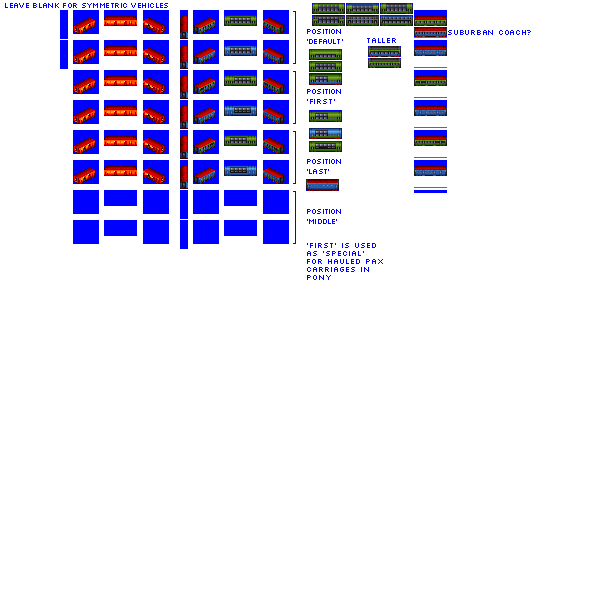
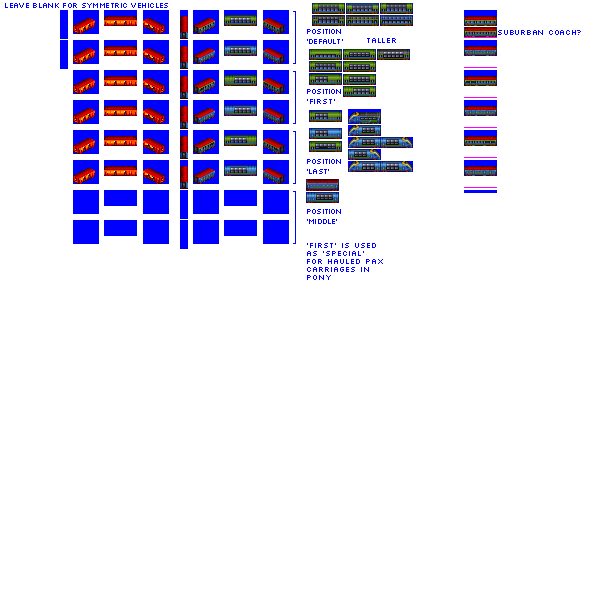
Change: WIP on pony gen 4 NG extension

diff --git a/src/train.py b/src/train.py
@@ -1155,7 +1155,9 @@ class Consist(object):
     @property
     def buy_menu_additional_text_role_string(self):
         if self._buy_menu_additional_text_role_string is not None:
-            return "STR_ROLE, string(" + self._buy_menu_additional_text_role_string + ")"
+            return (
+                "STR_ROLE, string(" + self._buy_menu_additional_text_role_string + ")"
+            )
         for role_group, roles in global_constants.role_group_mapping.items():
             if self.role in roles:
                 return (
@@ -1597,7 +1599,9 @@ class MailEngineRailcarConsist(MailEngineConsist):
         self.train_flag_mu = True
         if self.base_track_type_name == "NG" and self.gen == 4:
             # pony NG jank, mail railcar directly set role buy menu string here, (don't set a different role as that confuses the tech tree etc)
-            self._buy_menu_additional_text_role_string = "STR_ROLE_GENERAL_PURPOSE_EXPRESS"
+            self._buy_menu_additional_text_role_string = (
+                "STR_ROLE_GENERAL_PURPOSE_EXPRESS"
+            )
         # non-standard cite
         if self.base_track_type_name == "NG":
             # give NG a bonus to align run cost with NG railbus
@@ -1821,11 +1825,6 @@ class PassengerEngineExpressRailcarConsist(PassengerEngineConsist):
         else:
             self.roof_type = "pax_mail_smooth"
         # position variants
-        # * unit with driving cab front end
-        # * unit with driving cab rear end
-        # * unit with no cabs (center car)
-        # * special unit with no cabs (center car)
-        # ruleset will combine these to make multiple-units 1, 2, or 3 vehicles long, then repeating the pattern
         spriterow_group_mappings = {"default": 0, "first": 1, "last": 2, "special": 3}
         liveries = self.roster.get_pax_mail_liveries("default_pax_liveries", **kwargs)
         jfdi_pantograph_debug_image_y_offsets = [len(liveries) * 60, 30]
@@ -1916,7 +1915,9 @@ class PassengerEngineRailbusConsist(PassengerEngineConsist):
         if self.base_track_type_name == "NG":
             # pony NG jank, railbus trailers directly set role buy menu string here, (don't set a different role as that confuses the tech tree etc)
             if self.gen == 4:
-                self._buy_menu_additional_text_role_string = "STR_ROLE_GENERAL_PURPOSE_EXPRESS"
+                self._buy_menu_additional_text_role_string = (
+                    "STR_ROLE_GENERAL_PURPOSE_EXPRESS"
+                )
             else:
                 self._buy_menu_additional_text_role_string = "STR_ROLE_GENERAL_PURPOSE"
         # non-standard cite
@@ -6293,7 +6294,9 @@ class PassengerRailbusTrailerCarConsist(PassengeRailcarTrailerCarConsistBase):
         if self.base_track_type_name == "NG":
             # pony NG jank, railbus trailers directly set role buy menu string here, (don't set a different role as that confuses the tech tree etc)
             if self.gen == 4:
-                self._buy_menu_additional_text_role_string = "STR_ROLE_GENERAL_PURPOSE_EXPRESS"
+                self._buy_menu_additional_text_role_string = (
+                    "STR_ROLE_GENERAL_PURPOSE_EXPRESS"
+                )
             else:
                 self._buy_menu_additional_text_role_string = "STR_ROLE_GENERAL_PURPOSE"
         # I'd prefer @property, but it was TMWFTLB to replace instances of weight_factor with _weight_factor for the default value
@@ -8097,6 +8100,22 @@ class DieselRailcarBaseUnit(DieselEngineUnit):
         # the cab magic won't work unless it's asymmetric eh? :)
         self._symmetry_type = kwargs.get("symmetry_type", "asymmetric")
         # note that railcar effects are left in default position, no attempt to move them to end of vehicle, or double them (tried, looks weird)
+
+
+class DieselExpressRailcarPaxUnit(DieselRailcarBaseUnit):
+    """
+    Unit for a pax diesel express railcar.  Just a sparse subclass to set capacity and effects.
+    """
+
+    def __init__(self, **kwargs):
+        super().__init__(**kwargs)
+        # magic to set capacity subject to length and vehicle capacity type
+        self.capacity = self.get_pax_car_capacity()
+        # effects
+        self.engine_class = "ENGINE_CLASS_DIESEL"
+        self.effects = {
+            "default": ["EFFECT_SPAWN_MODEL_DIESEL", "EFFECT_SPRITE_DIESEL"],
+        }
 
 
 class DieselRailcarMailUnit(DieselRailcarBaseUnit):

diff --git a/src/vehicles/pony/flirt.py b/src/vehicles/pony/flirt.py
@@ -1,0 +1,50 @@
+from train import PassengerEngineRailbusConsist, DieselRailcarCombineUnitMail, DieselRailcarCombineUnitPax
+
+
+def main(roster_id, **kwargs):
+    consist = PassengerEngineRailbusConsist(
+        roster_id=roster_id,
+        id="flirt",
+        base_numeric_id=970,
+        name="FLIRT",
+        role="pax_railbus",
+        role_child_branch_num=1,
+        base_track_type_name="NG",
+        power_by_power_source={
+            "DIESEL": 900,
+        },
+        gen=4,
+        extended_vehicle_life=True,  # extended vehicle life for all this generation of NG eh
+        pax_car_capacity_type="railbus_combine_ng_2",  # specific to combined mail + pax consist
+        sprites_complete=False,
+    )
+
+    consist.add_unit(
+        type=DieselRailcarCombineUnitPax,
+        weight=18,
+        effect_z_offset=11,  # reduce smoke z position to suit NG engine height
+        chassis="railcar_ng_24px",
+        tail_light="railcar_24px_1",
+    )
+
+    consist.add_unit(
+        type=DieselRailcarCombineUnitMail,
+        weight=18,
+        effect_z_offset=11,  # reduce smoke z position to suit NG engine height
+        chassis="railcar_ng_16px",
+        tail_light="railcar_24px_1", # !!!!!!!!!!!!!!!!!!!!!!! wrong length - also no tail light needed, permanent middle car
+    )
+
+    consist.add_unit(
+        type=DieselRailcarCombineUnitPax,
+        weight=18,
+        effect_z_offset=11,  # reduce smoke z position to suit NG engine height
+        chassis="railcar_ng_24px",
+        tail_light="railcar_24px_1", # !!!!!!!!!!!!!!!!!!!!!!! wrong length
+    )
+
+    # https://www.stadlerrail.com/media/pdf/cttfgvl90420_en.pdf
+    consist.description = """"""
+    consist.foamer_facts = """STADLER FLIRT / CITYLINK"""
+
+    return consist

diff --git a/src/gestalt_graphics/gestalt_graphics.py b/src/gestalt_graphics/gestalt_graphics.py
@@ -1012,11 +1012,17 @@ class GestaltGraphicsConsistPositionDependent(GestaltGraphics):
         # that means we can just do first / last, and not worry about other position variants
         # support for arbitrary number of units could be added, derived from consist ruleset, but those cases don't exist as of Jan 2024
         if len(pipeline.consist.units) != 2:
-            raise BaseException(
-                "GestaltGraphicsConsistPositionDependent.get_buy_menu_unit_input_row_num(): consist "
-                + pipeline.consist.id
-                + " does not have exactly 2 units - this case is not currently supported"
-            )
+            if pipeline.consist.id == "flirt":
+                #JFDI jank
+                if unit_counter == 1:
+                    position_variant_offset = self.spriterow_group_mappings["default"]
+                    return position_variant_offset
+            else:
+                raise BaseException(
+                    "GestaltGraphicsConsistPositionDependent.get_buy_menu_unit_input_row_num(): consist "
+                    + pipeline.consist.id
+                    + " does not have exactly 2 units - this case is not currently supported"
+                )
 
         if unit_counter == 0:
             position_variant_offset = self.spriterow_group_mappings["first"]

diff --git a/src/vehicles/pony/amg_800.py b/src/vehicles/pony/amg_800.py
@@ -1,0 +1,39 @@
+from train import (
+    PassengerEngineExpressRailcarConsist,
+    DieselExpressRailcarPaxUnit,
+)
+
+
+def main(roster_id, **kwargs):
+    consist = PassengerEngineExpressRailcarConsist(
+        roster_id=roster_id,
+        id="amg_800",
+        base_numeric_id=390,
+        name="[AMG 800]",
+        role="express_pax_railcar",  # quite a specific role, may or may not scale to other rosters
+        role_child_branch_num=-2,
+        base_track_type_name="NG",
+        power_by_power_source={
+            "DIESEL": 1200,  # corsica AMG 800 is 590hp per engine https://fr.wikipedia.org/wiki/AMG_800
+        },
+        gen=4,
+        tilt_bonus=True,  # for lolz
+        extended_vehicle_life=True,  # extended vehicle life for all this generation of NG eh
+        consist_ruleset="railcars_4_unit_sets",  # special case
+        sprites_complete=False,
+    )
+
+    consist.add_unit(
+        type=DieselExpressRailcarPaxUnit,
+        weight=60,
+        capacity=24,
+        chassis="railcar_ng_32px",
+        tail_light="railcar_32px_5",
+        suppress_roof_sprite=True,
+        repeat=2,
+    )
+
+    consist.description = """."""
+    consist.foamer_facts = """CORSICA AMG 800"""
+
+    return consist

diff --git a/src/vehicles/pony/panoramic_cars_pony.py b/src/vehicles/pony/panoramic_cars_pony.py
@@ -5,7 +5,7 @@ def main(roster_id, **kwargs):
     # --------------- narrow gauge -----------------------------------------------------------------
     consist = PanoramicCarConsist(
         roster_id=roster_id,
-        roster_id_providing_module = kwargs["roster_id_providing_module"],
+        roster_id_providing_module=kwargs["roster_id_providing_module"],
         base_numeric_id=35130,
         gen=4,
         subtype="B",
@@ -13,11 +13,11 @@ def main(roster_id, **kwargs):
         sprites_complete=False,
     )
 
-    consist.add_unit(type=PaxCar, chassis="4_axle_ng_24px")
+    consist.add_unit(type=PaxCar, suppress_roof_sprite=True, chassis="4_axle_ng_24px")
 
     consist = PanoramicCarConsist(
         roster_id=roster_id,
-        roster_id_providing_module = kwargs["roster_id_providing_module"],
+        roster_id_providing_module=kwargs["roster_id_providing_module"],
         base_numeric_id=35140,
         gen=4,
         subtype="C",
@@ -25,4 +25,4 @@ def main(roster_id, **kwargs):
         sprites_complete=False,
     )
 
-    consist.add_unit(type=PaxCar, chassis="4_axle_ng_32px")
+    consist.add_unit(type=PaxCar, suppress_roof_sprite=True, chassis="4_axle_ng_32px")

diff --git a/src/rosters/pony.py b/src/rosters/pony.py
@@ -206,6 +206,10 @@ engine_module_names = [
     "snapper_single",
     "zorro",
     "ruby",
+    "flirt",
+    "amg_800",
+    "driving_cab_passenger_ng_pony_gen_4",
+    "driving_cab_panoramic_passenger_ng_pony_gen_4",
 ]
 
 # these can be alphabetised, the buy menu order is enforced in global constants
@@ -316,9 +320,13 @@ def main():
                 "multiplier": 2.5,
                 "loading_speed_multiplier": 1.75,
             },
-            "railbus_combine_ng": {
+            "railbus_combine_ng_1": {
                 "multiplier": 2,
                 "loading_speed_multiplier": 1.5,
+            },
+            "railbus_combine_ng_2": {
+                "multiplier": 1.4,
+                "loading_speed_multiplier": 1.25,
             },
         },
         # freight car weight factor varies slightly by gen, reflecting modern cars with lighter weight

diff --git a/src/vehicles/pony/driving_cab_panoramic_passenger_ng_pony_gen_4.py b/src/vehicles/pony/driving_cab_panoramic_passenger_ng_pony_gen_4.py
@@ -1,0 +1,24 @@
+from train import PassengerEngineCabControlCarConsist, CabControlPaxCarUnit
+
+
+def main(roster_id, **kwargs):
+    consist = PassengerEngineCabControlCarConsist(
+        roster_id=roster_id,
+        id="driving_cab_panoramic_passenger_ng_pony_gen_4",
+        base_numeric_id=23510,
+        name="Panoramic Driving Trailer",
+        role_child_branch_num=-2,  # driving cab cars are probably jokers?
+        base_track_type_name="NG",
+        gen=4,
+        extended_vehicle_life=True,  # extended vehicle life for all this generation of NG eh
+        sprites_complete=False,
+    )
+
+    consist.add_unit(type=CabControlPaxCarUnit, weight=32, chassis="railcar_32px")
+
+    consist.description = """"""
+    consist.foamer_facts = (
+        """KIWI DRIVING CAB"""
+    )
+
+    return consist

diff --git a/src/vehicles/pony/driving_cab_passenger_ng_pony_gen_4.py b/src/vehicles/pony/driving_cab_passenger_ng_pony_gen_4.py
@@ -1,0 +1,24 @@
+from train import PassengerEngineCabControlCarConsist, CabControlPaxCarUnit
+
+
+def main(roster_id, **kwargs):
+    consist = PassengerEngineCabControlCarConsist(
+        roster_id=roster_id,
+        id="driving_cab_passenger_ng_pony_gen_4",
+        base_numeric_id=23260,
+        name="Driving Trailer",
+        role_child_branch_num=-1,  # driving cab cars are probably jokers?
+        base_track_type_name="NG",
+        gen=4,
+        extended_vehicle_life=True,  # extended vehicle life for all this generation of NG eh
+        sprites_complete=False,
+    )
+
+    consist.add_unit(type=CabControlPaxCarUnit, weight=32, chassis="4_axle_ng_32px")
+
+    consist.description = """"""
+    consist.foamer_facts = (
+        """KIWI DRIVING CAB"""
+    )
+
+    return consist

diff --git a/src/vehicles/pony/snapper.py b/src/vehicles/pony/snapper.py
@@ -11,11 +11,11 @@ def main(roster_id, **kwargs):
         role_child_branch_num=1,
         base_track_type_name="NG",
         power_by_power_source={
-            "DIESEL": 560,  # corsica AMG 800 is 590hp per engine https://fr.wikipedia.org/wiki/AMG_800
+            "DIESEL": 560,
         },
         gen=4,
         extended_vehicle_life=True,  # extended vehicle life for all this generation of NG eh
-        pax_car_capacity_type="railbus_combine_ng",  # specific to combined mail + pax consist
+        pax_car_capacity_type="railbus_combine_ng_1",  # specific to combined mail + pax consist
         sprites_complete=True,
     )
 

diff --git a/src/doc_helper.py b/src/doc_helper.py
@@ -137,7 +137,7 @@ class DocHelper(object):
             if (
                 consist.buy_menu_additional_text_hint_driving_cab
                 or consist.wagons_add_power
-                or consist.role in ["pax_metro", "mail_metro"]
+                or consist.role in ["pax_metro", "mail_metro", "gronk!"]
                 or consist._buyable_variant_group_id is not None
             ):
                 result.append(consist)

diff --git a/src/vehicles/pony/mumble.py b/src/vehicles/pony/mumble.py
@@ -19,7 +19,7 @@ def main(roster_id, **kwargs):
         },
         gen=3,
         extended_vehicle_life=True,  # extended vehicle life for all this generation of NG eh
-        pax_car_capacity_type="railbus_combine_ng",  # specific to combined mail + pax consist
+        pax_car_capacity_type="railbus_combine_ng_1",  # specific to combined mail + pax consist
         sprites_complete=True,
     )
 
